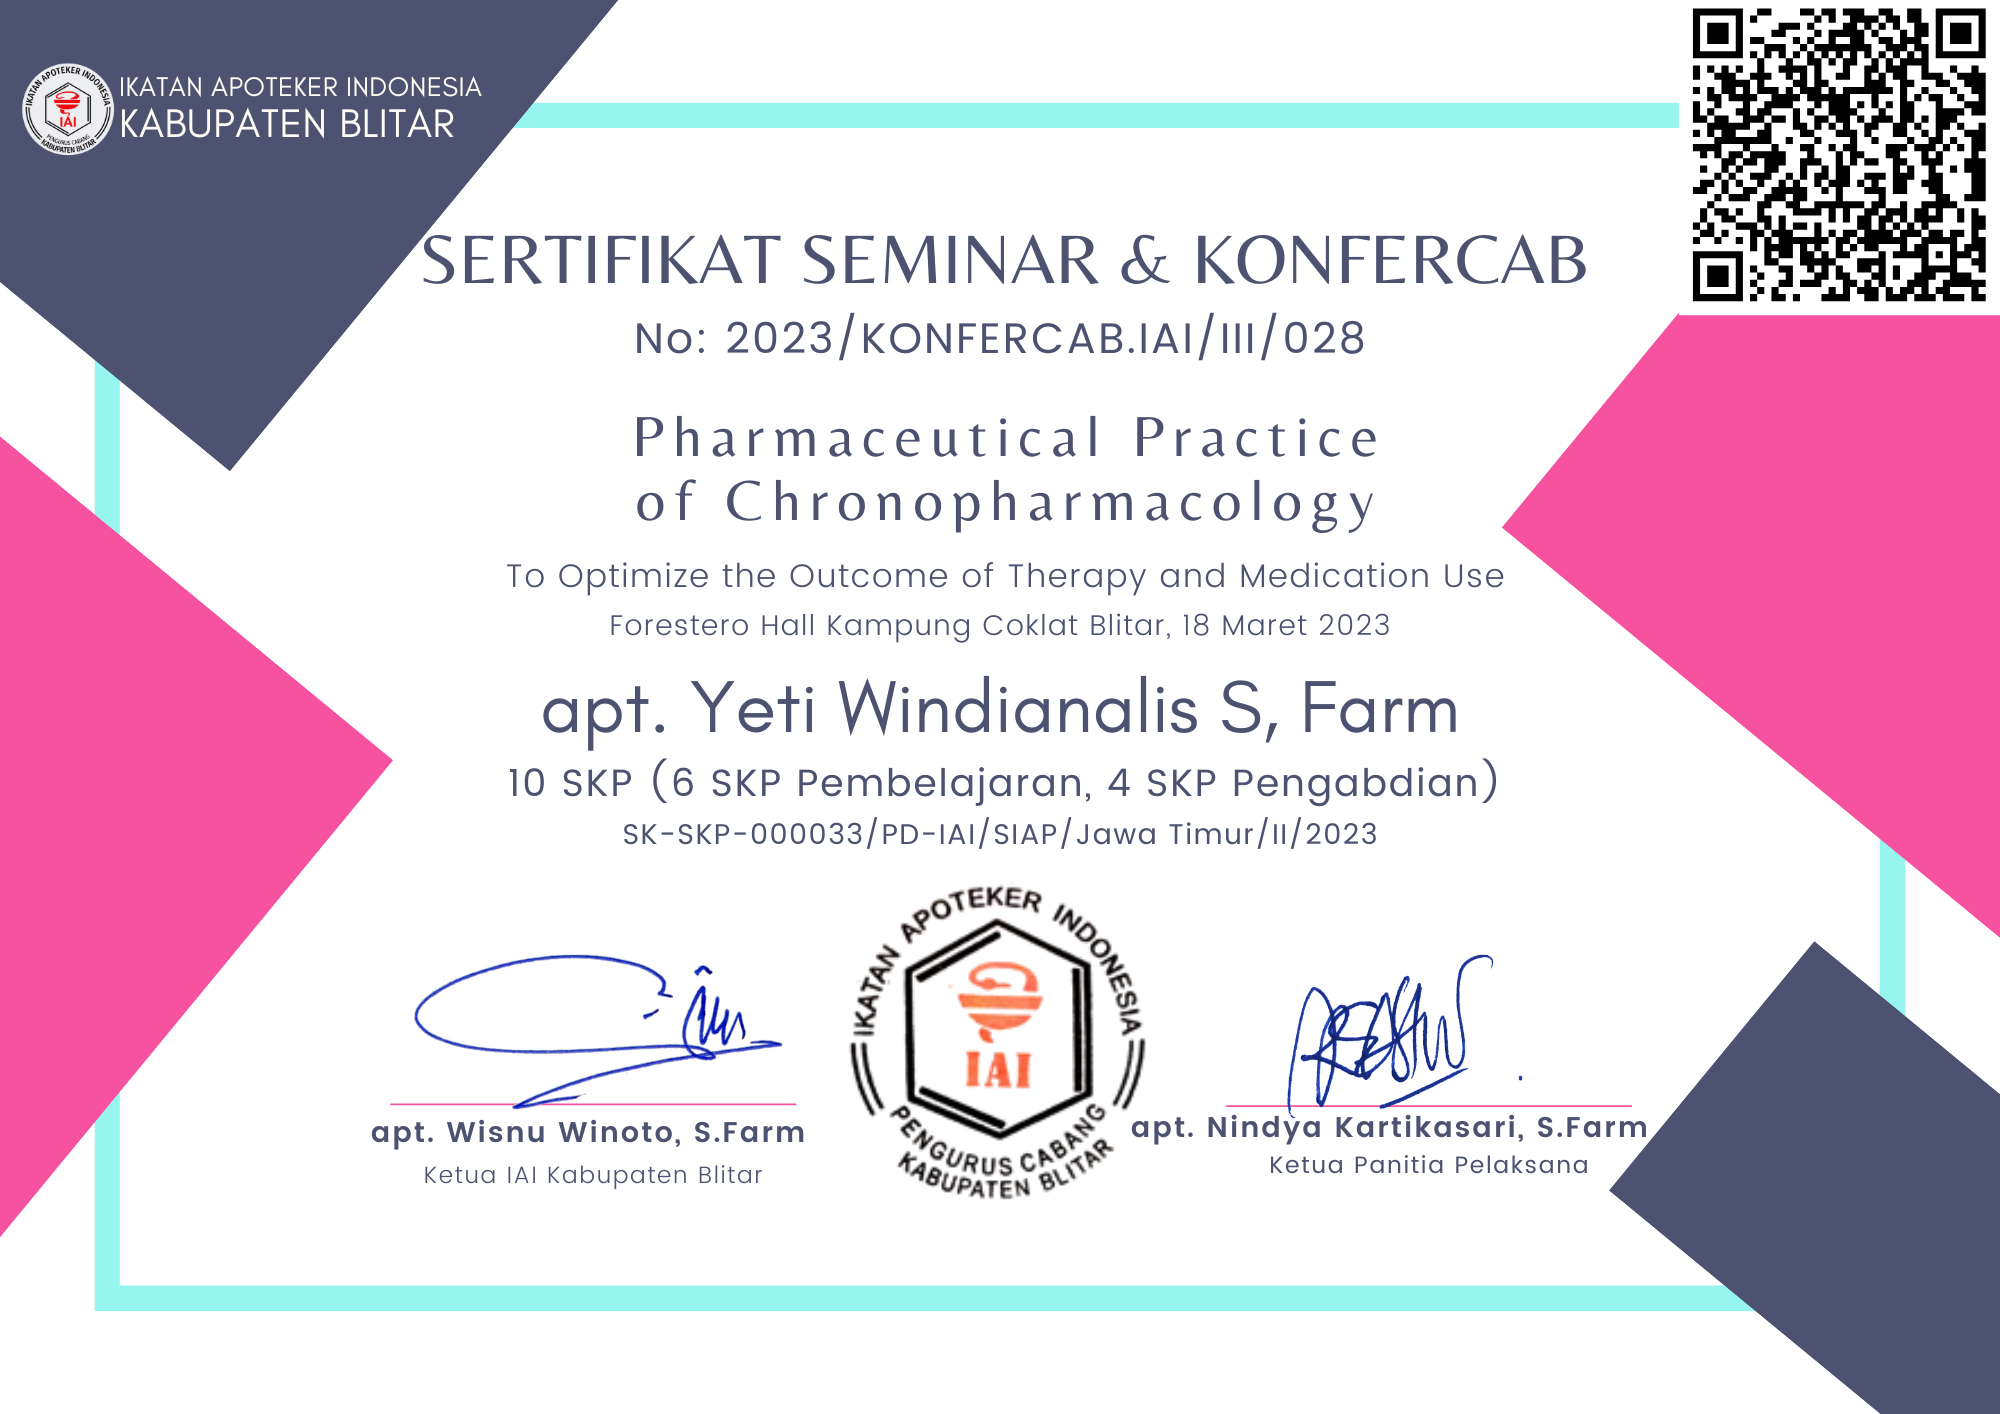
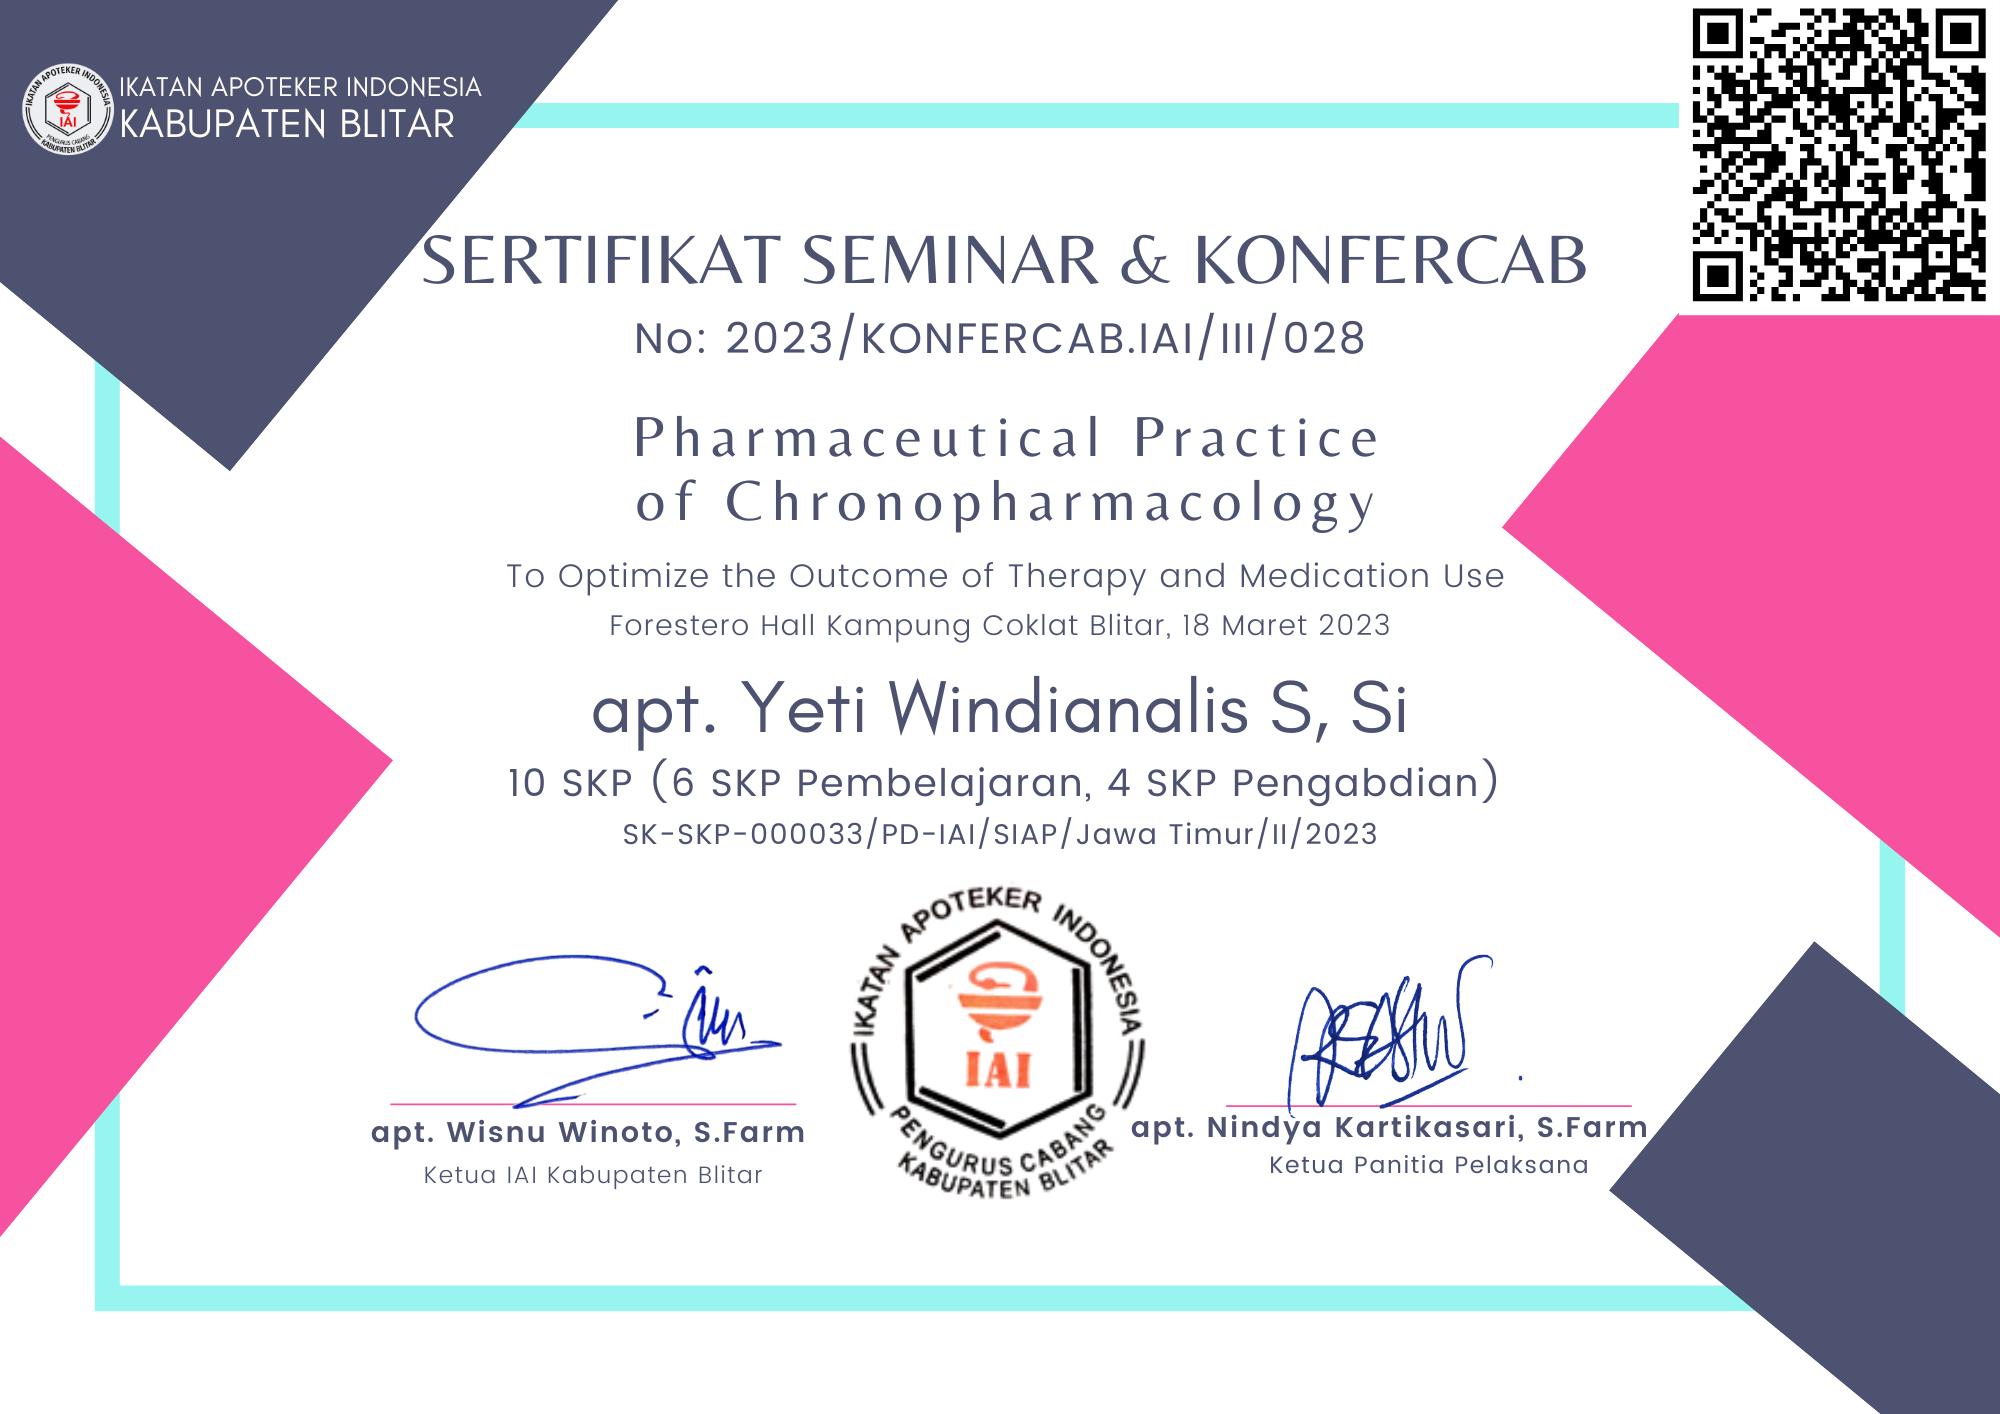
Add legacy certificate, fix title.

Changed region(s): [[0.279, 0.4668, 0.744, 0.529]]

diff --git a/src/contents/certificates/2021-11-21-rakercab-dan-workshop-iai-kabupaten-blitar-2021/003/index.md b/src/contents/certificates/2021-11-21-rakercab-dan-workshop-iai-kabupaten-blitar-2021/003/index.md
@@ -1,0 +1,11 @@
+---
+nomor: "003"
+sertifikat: "2021/RAKERCAB.IAI/XI/003"
+peserta: "apt. Yeti Windianalis, S.Si"
+skiai: "SK-SKP-000211/PD-IAI/SIAP/Jawa Timur/X/2021"
+skp: "6"
+eventslug: "rakercab-dan-workshop-iai-kabupaten-blitar-2021"
+date: "2021-11-21"
+---
+
+![GATSBY_EMPTY_ALT](003-apt.-yeti-windianalis,-s.si.png)
